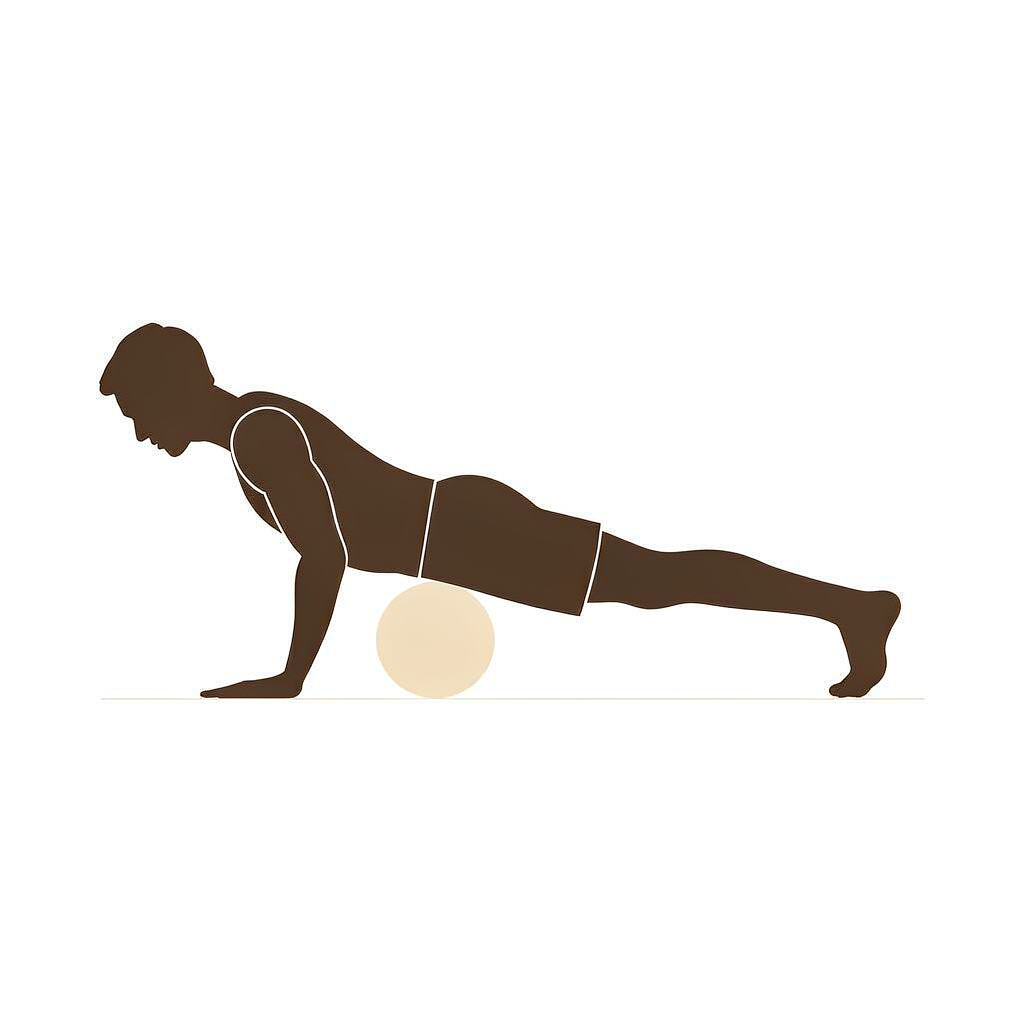
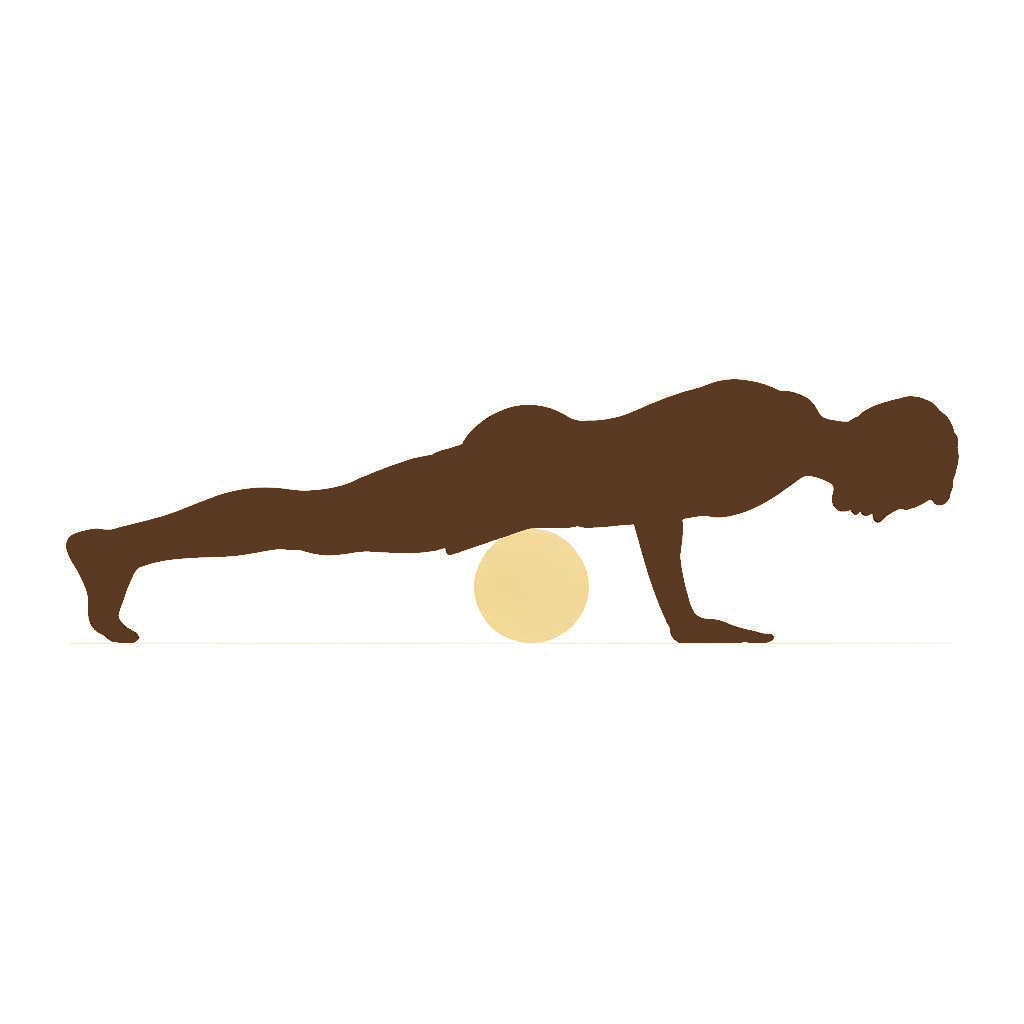
训练指导：补齐六十式剪影示意图并接入页面
assets/exercise-figures 收录全部 60 张（六艺各十式），并同步为 assets/move_figures 的 {exercise}-{level}.png。

指导页改为单张图位，缺图仍回退到六艺图标。

新增 tool/figtool.py：统一 #5B3A24 剪影与纯白背景、水平镜像、规格体检。

Changed region(s): [[0.0625, 0.3125, 0.9375, 0.6875]]

diff --git a/lib/features/moves/move_guide_page.dart b/lib/features/moves/move_guide_page.dart
@@ -118,7 +118,7 @@ class _Header extends StatelessWidget {
   }
 }
 
-/// 动作示意图：加载按式次命名的剪影插画，缺图时回退到六艺图标。
+/// 动作示意图：单张剪影插画，缺图时回退到六艺图标。
 class _MoveFigure extends StatelessWidget {
   const _MoveFigure({required this.move});
 
@@ -127,50 +127,27 @@ class _MoveFigure extends StatelessWidget {
   @override
   Widget build(BuildContext context) {
     final theme = Theme.of(context);
-    final asset = 'assets/move_figures/${move.exercise.name}-${move.level}.png';
-
     return ClipRRect(
-      borderRadius: BorderRadius.circular(16),
-      child: AspectRatio(
-        aspectRatio: 1,
-        child: ColoredBox(
-          color: Colors.white,
+      borderRadius: BorderRadius.circular(14),
+      child: ColoredBox(
+        color: Colors.white,
+        child: AspectRatio(
+          aspectRatio: 1,
           child: Image.asset(
-            asset,
+            'assets/move_figures/${move.exercise.name}-${move.level}.png',
             fit: BoxFit.contain,
-            errorBuilder: (context, error, stackTrace) => _fallback(theme),
+            errorBuilder: (context, error, stackTrace) => Center(
+              child: Icon(
+                move.exercise.icon,
+                size: 48,
+                color: theme.colorScheme.primary.withValues(alpha: 0.35),
+              ),
+            ),
           ),
         ),
       ),
     );
   }
-
-  Widget _fallback(ThemeData theme) => Center(
-        child: Column(
-          mainAxisSize: MainAxisSize.min,
-          children: [
-            Icon(
-              move.exercise.icon,
-              size: 64,
-              color: theme.colorScheme.primary.withValues(alpha: 0.55),
-            ),
-            const SizedBox(height: 10),
-            Text(
-              '动作示意',
-              style: theme.textTheme.titleSmall?.copyWith(
-                fontWeight: FontWeight.w600,
-              ),
-            ),
-            const SizedBox(height: 4),
-            Text(
-              '按下方「动作」要点完成',
-              style: theme.textTheme.bodySmall?.copyWith(
-                color: theme.colorScheme.onSurfaceVariant,
-              ),
-            ),
-          ],
-        ),
-      );
 }
 
 class _TargetLine extends StatelessWidget {

diff --git a/tool/figtool.py b/tool/figtool.py
@@ -1,0 +1,104 @@
+"""示意图后处理与体检：水平镜像、把整块剪影压成单一棕色 #5B3A24、批量检查规格。
+
+用法（参数用式次前缀，避免命令行传中文路径）：
+    python tool/figtool.py mirror 53
+    python tool/figtool.py flatten 32 33 49
+    python tool/figtool.py audit          # 全部 60 张
+    python tool/figtool.py audit 23 37    # 只查指定几张
+"""
+
+import sys
+from pathlib import Path
+
+import numpy as np
+from PIL import Image
+
+ROOT = Path(__file__).resolve().parent.parent / "assets" / "exercise-figures"
+BROWN = np.array([0x5B, 0x3A, 0x24], dtype=np.uint8)
+# 剪影主体（含深浅两种棕色）亮度都在 160 以下；160 以上只留抗锯齿过渡与白色背景/浅灰道具。
+SOLID_LUM = 160.0
+# 剪影像素中，纯 #5B3A24 占比低于该值即认为存在「两块褐色」。
+PURE_RATIO = 0.97
+
+
+def figure_mask(pixels: np.ndarray) -> np.ndarray:
+    r, g, b = pixels[..., 0], pixels[..., 1], pixels[..., 2]
+    luminance = pixels.mean(axis=2)
+    brownish = (r - b > 12) & (r >= g) & (g >= b)
+    return brownish & (luminance < SOLID_LUM)
+
+
+def resolve(prefix: str) -> Path:
+    matches = sorted(ROOT.glob(f"{prefix}-*.png"))
+    if len(matches) != 1:
+        raise SystemExit(f"{prefix}: expected 1 file, got {matches}")
+    return matches[0]
+
+
+def mirror(path: Path) -> None:
+    Image.open(path).transpose(Image.FLIP_LEFT_RIGHT).save(path)
+    print("mirror", path.name)
+
+
+def flatten(path: Path) -> None:
+    """把深色剪影内部所有深浅不一的棕色统一成 #5B3A24，保留抗锯齿与浅灰道具。"""
+    pixels = np.asarray(Image.open(path).convert("RGB")).astype(np.float32)
+    solid = figure_mask(pixels)
+    out = pixels.copy()
+    out[solid] = BROWN
+    Image.fromarray(out.astype(np.uint8)).save(path)
+    print("flatten", path.name, "solid", int(solid.sum()))
+
+
+def whiten(path: Path) -> None:
+    """把背景压成纯 #FFFFFF：亮度 ≥252 的中性像素直接置白，去掉生成图的 ±2 噪点。
+
+    阈值取 252 是为了不伤到浅灰墙面（≈247）与地面细线。
+    """
+    pixels = np.asarray(Image.open(path).convert("RGB")).astype(np.float32)
+    luminance = pixels.mean(axis=2)
+    neutral = (pixels.max(axis=2) - pixels.min(axis=2)) < 10
+    background = neutral & (luminance >= 252)
+    out = pixels.copy()
+    out[background] = 255
+    Image.fromarray(out.astype(np.uint8)).save(path)
+    print("whiten", path.name, "px", int(background.sum()))
+
+
+def normalize(path: Path) -> None:
+    flatten(path)
+    whiten(path)
+
+
+def audit(path: Path) -> None:
+    image = Image.open(path).convert("RGB")
+    pixels = np.asarray(image).astype(np.float32)
+    mask = figure_mask(pixels)
+    total = int(mask.sum())
+    pure = int((np.all(pixels[mask] == BROWN, axis=-1)).sum()) if total else 0
+    ratio = pure / total if total else 0.0
+    corners = [pixels[0, 0], pixels[0, -1], pixels[-1, 0], pixels[-1, -1]]
+    # 生成图自带 ±2 的压缩噪声，肉眼不可分，因此角点 ≥250 且中性即视为纯白。
+    white = all(c.min() >= 250 and c.max() - c.min() <= 4 for c in corners)
+    flags = []
+    if image.size != (1024, 1024):
+        flags.append(f"size={image.size}")
+    if not white:
+        flags.append("背景非纯白")
+    if ratio < PURE_RATIO:
+        flags.append(f"棕色不纯 {ratio:.1%}")
+    print(f"{path.name:<24} fig={total:<7} pure={ratio:6.1%} {' '.join(flags) or 'ok'}")
+
+
+if __name__ == "__main__":
+    action, prefixes = sys.argv[1], sys.argv[2:]
+    handler = {
+        "mirror": mirror,
+        "flatten": flatten,
+        "whiten": whiten,
+        "normalize": normalize,
+        "audit": audit,
+    }[action]
+    targets = [resolve(p) for p in prefixes] if prefixes else sorted(ROOT.glob("*.png"))
+    for path in targets:
+        handler(path)

diff --git a/assets/exercise-figures/MANIFEST.md b/assets/exercise-figures/MANIFEST.md
@@ -1,0 +1,121 @@
+# 六十式动作示意图清单
+
+进度：**60 / 60**（俯卧撑 1–10、深蹲 11–20、引体向上 21–30、举腿 31–40、桥 41–50、倒立撑 51–60）
+
+## 统一规格
+
+- 侧视朝右，男性运动员，单一深棕色实心剪影 `#5B3A24`
+- 纯白背景 `#FFFFFF`，地面一条极淡水平线
+- 无阴影、无文字、无水印、无描边、无内部细节
+- 1024×1024，`quality: high`
+- 道具配色：篮球/棒球/毛巾 `极浅米黄`；墙、台面、凳子、单杠 `极浅灰`
+
+## 已完成
+
+| 式 | 文件 | 状态 | 备注 |
+|---|---|---|---|
+| 1 | 01-墙壁俯卧撑.png | ✅ | |
+| 2 | 02-上斜俯卧撑.png | ✅ | 台面约身高的 36%，非指导的 1/2；抬高会让手臂前伸、脱离俯卧撑姿态 |
+| 3 | 03-跪姿俯卧撑.png | ✅ | |
+| 4 | 04-半俯卧撑.png | ✅ | 髋下篮球，球顶与身体留空隙 |
+| 5 | 05-标准俯卧撑.png | ✅ | 最低点，棒球垫在胸下，下半球可见 |
+| 6 | 06-窄距俯卧撑.png | ✅ | 侧视看不到食指相触 |
+| 7 | 07-偏重俯卧撑.png | ✅ | 一手撑地、一手压篮球 |
+| 8 | 08-半单臂俯卧撑.png | ✅ | 已水平镜像，与其他图同朝右 |
+| 9 | 09-杠杆俯卧撑.png | ✅ | 手臂远伸、球在远处 |
+| 10 | 10-单臂俯卧撑.png | ✅ | |
+| 11 | 11-肩倒立深蹲.png | ✅ | 重做：肩在底、髋最高、膝折向脸；手臂收在背后不露，无白缝 |
+| 12 | 12-折刀深蹲.png | ✅ | |
+| 13 | 13-支撑深蹲.png | ✅ | |
+| 14 | 14-半深蹲.png | ✅ | |
+| 15 | 15-标准深蹲.png | ✅ | 已蹲到底 |
+| 16 | 16-窄距深蹲.png | ✅ | |
+| 17 | 17-偏重深蹲.png | ✅ | 脚跟搭在篮球上 |
+| 18 | 18-单腿半蹲.png | ✅ | |
+| 19 | 19-单腿辅助深蹲.png | ✅ | 仅一只手可见 |
+| 20 | 20-单腿深蹲.png | ✅ | 支撑脚脚跟略微抬起 |
+| 21 | 21-竖直引体.png | ✅ | |
+| 22 | 22-水平引体.png | ✅ | 右桌腿与身体轮廓有穿插 |
+| 23 | 23-折刀引体.png | ✅ | 重做：双腿伸直、大腿水平，台面与髋同高，折刀角度约 90° |
+| 24 | 24-半引体.png | ✅ | |
+| 25 | 25-标准引体.png | ✅ | |
+| 26 | 26-窄距引体.png | ⚠ | 侧视下与 25 无法区分 |
+| 27 | 27-偏重引体.png | ✅ | 一手握另一手腕 |
+| 28 | 28-单臂半引体.png | ✅ | |
+| 29 | 29-单臂辅助引体.png | ✅ | 毛巾挂在杠上 |
+| 30 | 30-单臂引体.png | ✅ | |
+| 31 | 31-坐姿屈膝.png | ✅ | 起始位膝盖略弯 |
+| 32 | 32-平卧屈膝.png | ✅ | figtool flatten：整块压成 #5B3A24 |
+| 33 | 33-平卧蛙举腿.png | ✅ | figtool flatten：整块压成 #5B3A24 |
+| 34 | 34-平卧蛙举腿伸展.png | ✅ | |
+| 35 | 35-平卧直举腿.png | ✅ | |
+| 36 | 36-悬垂屈膝举腿.png | ✅ | |
+| 37 | 37-悬垂蛙举腿.png | ⚠ | 重做：躯干已竖直；小腿仍略偏前（应为向后下） |
+| 38 | 38-悬垂屈膝伸展.png | ✅ | |
+| 39 | 39-悬垂直举腿半程.png | ✅ | |
+| 40 | 40-悬垂直举腿.png | ✅ | 方向已修正为朝前 |
+| 41 | 41-短桥.png | ✅ | 重做：双手叠在腹部并入轮廓，无白线 |
+| 42 | 42-直桥.png | ✅ | 重做：肩到脚跟一条直线，仅掌根与脚跟触地 |
+| 43 | 43-高低桥.png | ✅ | 重做：肩背压满凳面，头垂在凳沿外，手撑在头侧地面 |
+| 44 | 44-顶桥.png | ✅ | 重做：头顶触地，双手在头两侧 |
+| 45 | 45-半桥.png | ✅ | 重做：球垫下背，肩与双脚着地，无白线 |
+| 46 | 46-标准桥.png | ✅ | 肩下手臂伸直，臀部最高 |
+| 47 | 47-下行桥.png | ✅ | 重做：手在墙面高于头顶，后仰侧脸清晰 |
+| 48 | 48-上行桥.png | ✅ | 重做：双手贴墙在肩高、身体成弧推起，与 47 靠躯干角度区分 |
+| 49 | 49-合桥.png | ✅ | figtool flatten：短裤与躯干同为 #5B3A24 |
+| 50 | 50-站立拉桥.png | ✅ | 双手离地悬空，臀部最高 |
+| 51 | 51-折刀俯卧撑.png | ✅ | 倒 V 形，头在双手之间、离地一拳 |
+| 52 | 52-乌鸦式.png | ✅ | 只有手掌着地，脚离地 |
+| 53 | 53-靠墙顶立.png | ✅ | figtool mirror：墙已移到左侧，与 54–60 一致 |
+| 54 | 54-半倒立撑.png | ✅ | 肘约 90°，头离地半个手臂 |
+| 55 | 55-标准倒立撑.png | ✅ | 肩降到接近手掌，头离地一拳 |
+| 56 | 56-窄距倒立撑.png | ⚠ | 侧视下与 55 差别仅在手的位置，几乎无法区分 |
+| 57 | 57-偏重倒立撑.png | ✅ | 一手压球顶、一手撑地，球底贴地 |
+| 58 | 58-单臂半倒立撑.png | ⚠ | 另一手握拳贴胸；幅度偏深，「半程」读感不足 |
+| 59 | 59-杠杆倒立撑.png | ⚠ | 辅助手手背贴地，主手几乎伸直，幅度偏浅 |
+| 60 | 60-单臂倒立撑.png | ✅ | 另一手向后伸、悬空，头几乎贴地 |
+
+## 全部完成
+
+60 张已齐，已按 `{exercise}-{level}.png` 复制进 `assets/move_figures/` 并由 `move_guide_page.dart` 使用。11、32、33、41–49、53 为终版。
+
+**后处理脚本** `tool/figtool.py`（Python + Pillow/numpy），重生成后不必再靠提示词纠偏：
+
+- `python tool/figtool.py normalize`：对全部 60 张统一色彩——剪影内部涂成 `#5B3A24`，背景亮度 ≥252 的中性像素置纯白。已跑过一轮，现在 60 张的棕色纯度都是 100%。
+- `python tool/figtool.py flatten 32 33 49` / `whiten 47`：只做单项处理。
+- `python tool/figtool.py mirror 53`：水平镜像，用于修正墙位/朝向。
+- `python tool/figtool.py audit`：体检 60 张的尺寸、背景白度、棕色纯度，有问题的会标出来。
+
+参数用式次前缀，不要传中文路径（命令行编码会丢参）。改完图后记得同步复制到 `assets/move_figures/`。
+
+**为什么值得跑一遍**：模型每张图的棕色其实都不一样（实测有 `#5B3A1E`、`#584317`、`#422E19` 等），背景也不是严格的 255，而是 253–255 的压缩噪点。肉眼单看无感，60 张并排就会显得脏。阈值取 160（棕色）/252（背景），是为了不伤到浅灰墙面（≈247）、浅灰凳子和地面细线。`audit` 里角点判定放宽到 ≥250 且中性差 ≤4，因为生成图的底色本来就有 ±2 噪点。
+
+**剩余标注**（不再重画）：26 / 56（侧视下与上一式无法区分）、58 / 59（幅度偏深/偏浅），属侧视表现力上限；37 小腿略偏前，偏差很小。
+
+## 提示词模板（已验证有效）
+
+```
+极简风格的动作教学示意图插画：画面中只有一个男性运动员，侧面朝右，做{动作名}。{3–5 条空间关系描述：接触点 / 角度 / 高度}
+他赤脚。人物是深棕色（#5B3A24）的一大块实心扁平剪影，全身只有一种棕色，
+内部没有任何白色线条、没有描边；穿运动短裤和背心。
+背景必须是纯粹的白色（#FFFFFF），不能米白、不能有噪点或水印、不能有任何文字。
+地面只有一条极淡水平线，{道具}是极浅灰色纯色；只画一个人物，不要重影；人物居中，留白充足。
+```
+
+## 已知的模型偏差（踩过的坑）
+
+1. **极限深蹲画不到位**：反复输出膝盖 90°。有效写法是「臀部低于膝盖」「大腿与小腿夹角小于 30 度」。
+2. **肩倒立类**：容易画成仰卧抬腿。要点是「地面接触点只有肩膀和上臂」「臀部是最高点」「头离地一拳」。
+3. **单腿动作会跑成弓步**：抬起的腿总被甩到身后。必须写「腿伸向画面右侧（面朝方向）」「身后是空的」。
+4. **手撑球容易跑到躯干下面**：要明确「球在手掌正下方」「球底贴地」「手掌从上方压住球顶」。
+5. **风格漂移**：会突然出现米白底、右下角「AI生成」水印、深度两色、内部白描边。提示词里必须每次都写「纯白 #FFFFFF / 无水印 / 单一棕色 / 无白线」。
+6. **视角漂移**：手臂一弯就容易画成正面。要写「纯侧面，只能看见一只手臂」。
+7. **倒立类手臂会平铺在地上**：说「手掌撑地、手臂弯曲」时，模型会把前臂整条按在地面上。有效写法是「前臂竖直、手腕在手掌正上方」「手臂没有平铺在地上」「只有手掌接触地面」。
+8. **倒立体位要写清上下顺序**：用「从上往下依次是双脚、双腿、臀部、躯干、肩膀、头」一句，比写「倒立」稳定得多。
+9. **手撑墙会被换成头靠墙**：凡是要双手扶墙（47、48），除非手举过头顶，模型都会让手掌悬空、把头贴到墙上。48 因此退化为「桥式 + 墙脚」；不要再为这一式反复重试。
+10. **起势类动作（49、50）容易画成坐姿**：必须写明「双脚踩地、臀部高于膝盖」与「身体像一张弓」，否则会得到「靠墙坐」或「后仰举手」的剪影。
+11. **白缝的根因是「手贴身体」**：只要手臂贴着躯干（41 手叠腹、11 手撑后腰），模型一定在两者之间勾一道白边，写「不要白缝」也没用。两个有效解法：① 把手臂改成被躯干挡住（「手臂收在背后、看不太出来，只露出一点手肘」）；② 让上臂平贴地面与身体融成一体。8-20 之后 41 用①、11 用①，均干净。
+12. **人卧凳上时，头和凳沿的相对位置最容易错**：只写「头垂在凳外」会让模型把头压在凳面上、肩膀悬空。有效写法是把接触点绑到骨头：「肩胛骨与上背平压在凳面上」「凳子的右边缘就在脖子下方」「头与凳子之间不重叠」。注意凳沿一定在脖子与头之间，方向不要写反。
+13. **手撑墙的新写法（48 已验证）**：「手掌高度在臀部附近 + 手腕弯成直角 + 手掌必须贴着墙面」能稳定得到手贴墙的剪影；「手扶墙、手指朝下」则会退化成头靠墙、手悬空。
+14. **折刀引体的支撑面必须与髋同高（23 已验证）**：只写「脚搭在高凳上」时，凳矮一档腿就被画弯。要写「台面高度正好与他的髀部相同」「大腿与地面平行」「躯干与双腿在髀部折成大约九十度」。
+15. **同一提示词会漂出米白底和「AI生成」水印**：37、47 前两版都中过招。压不住时补一句「画面里不能有任何文字、不能有水印，右下角必须是空白」，比只写「无水印」有效。
